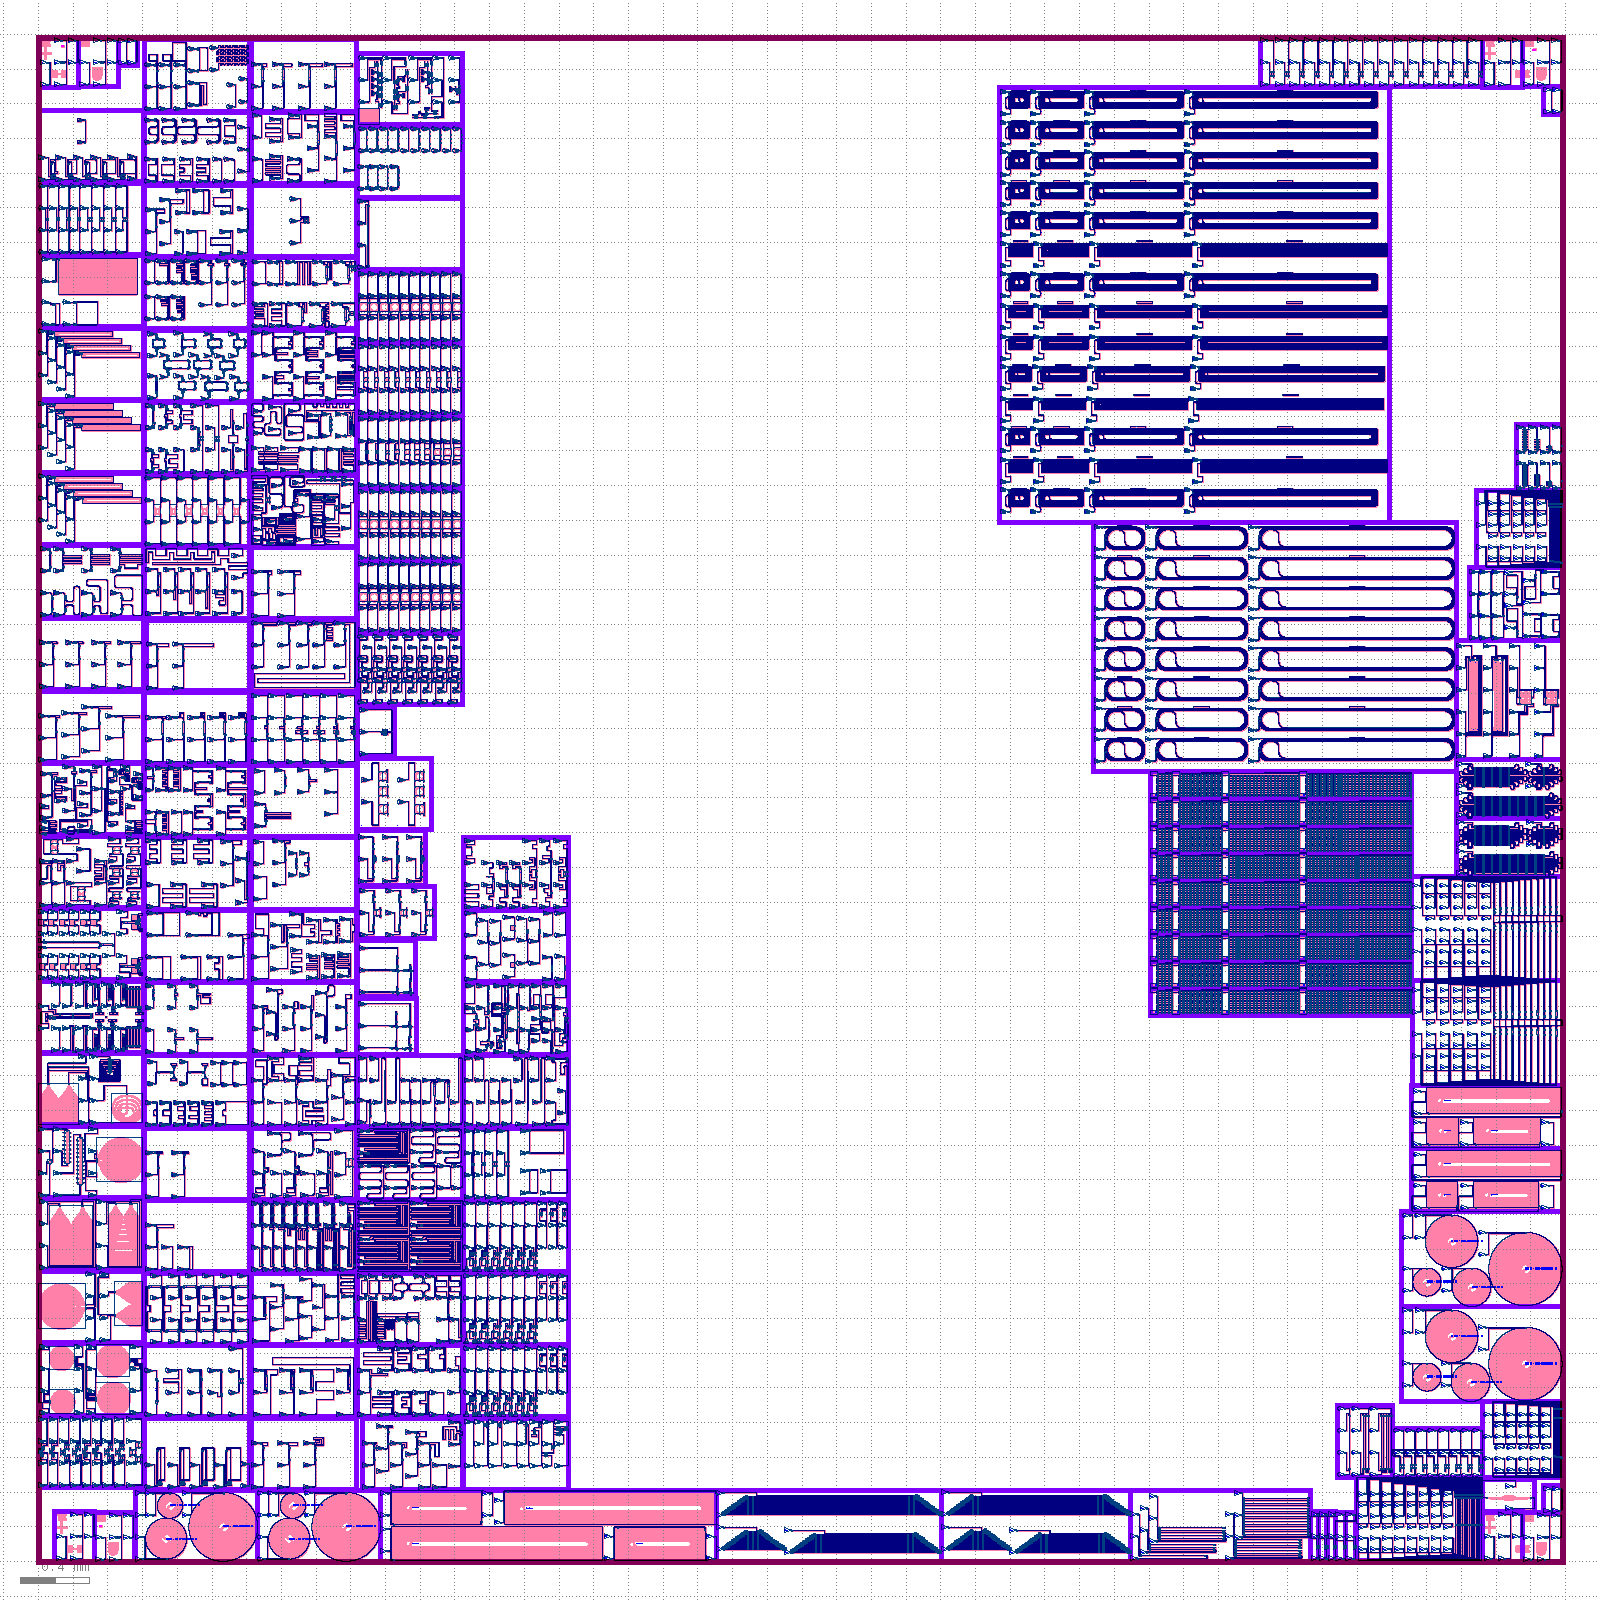
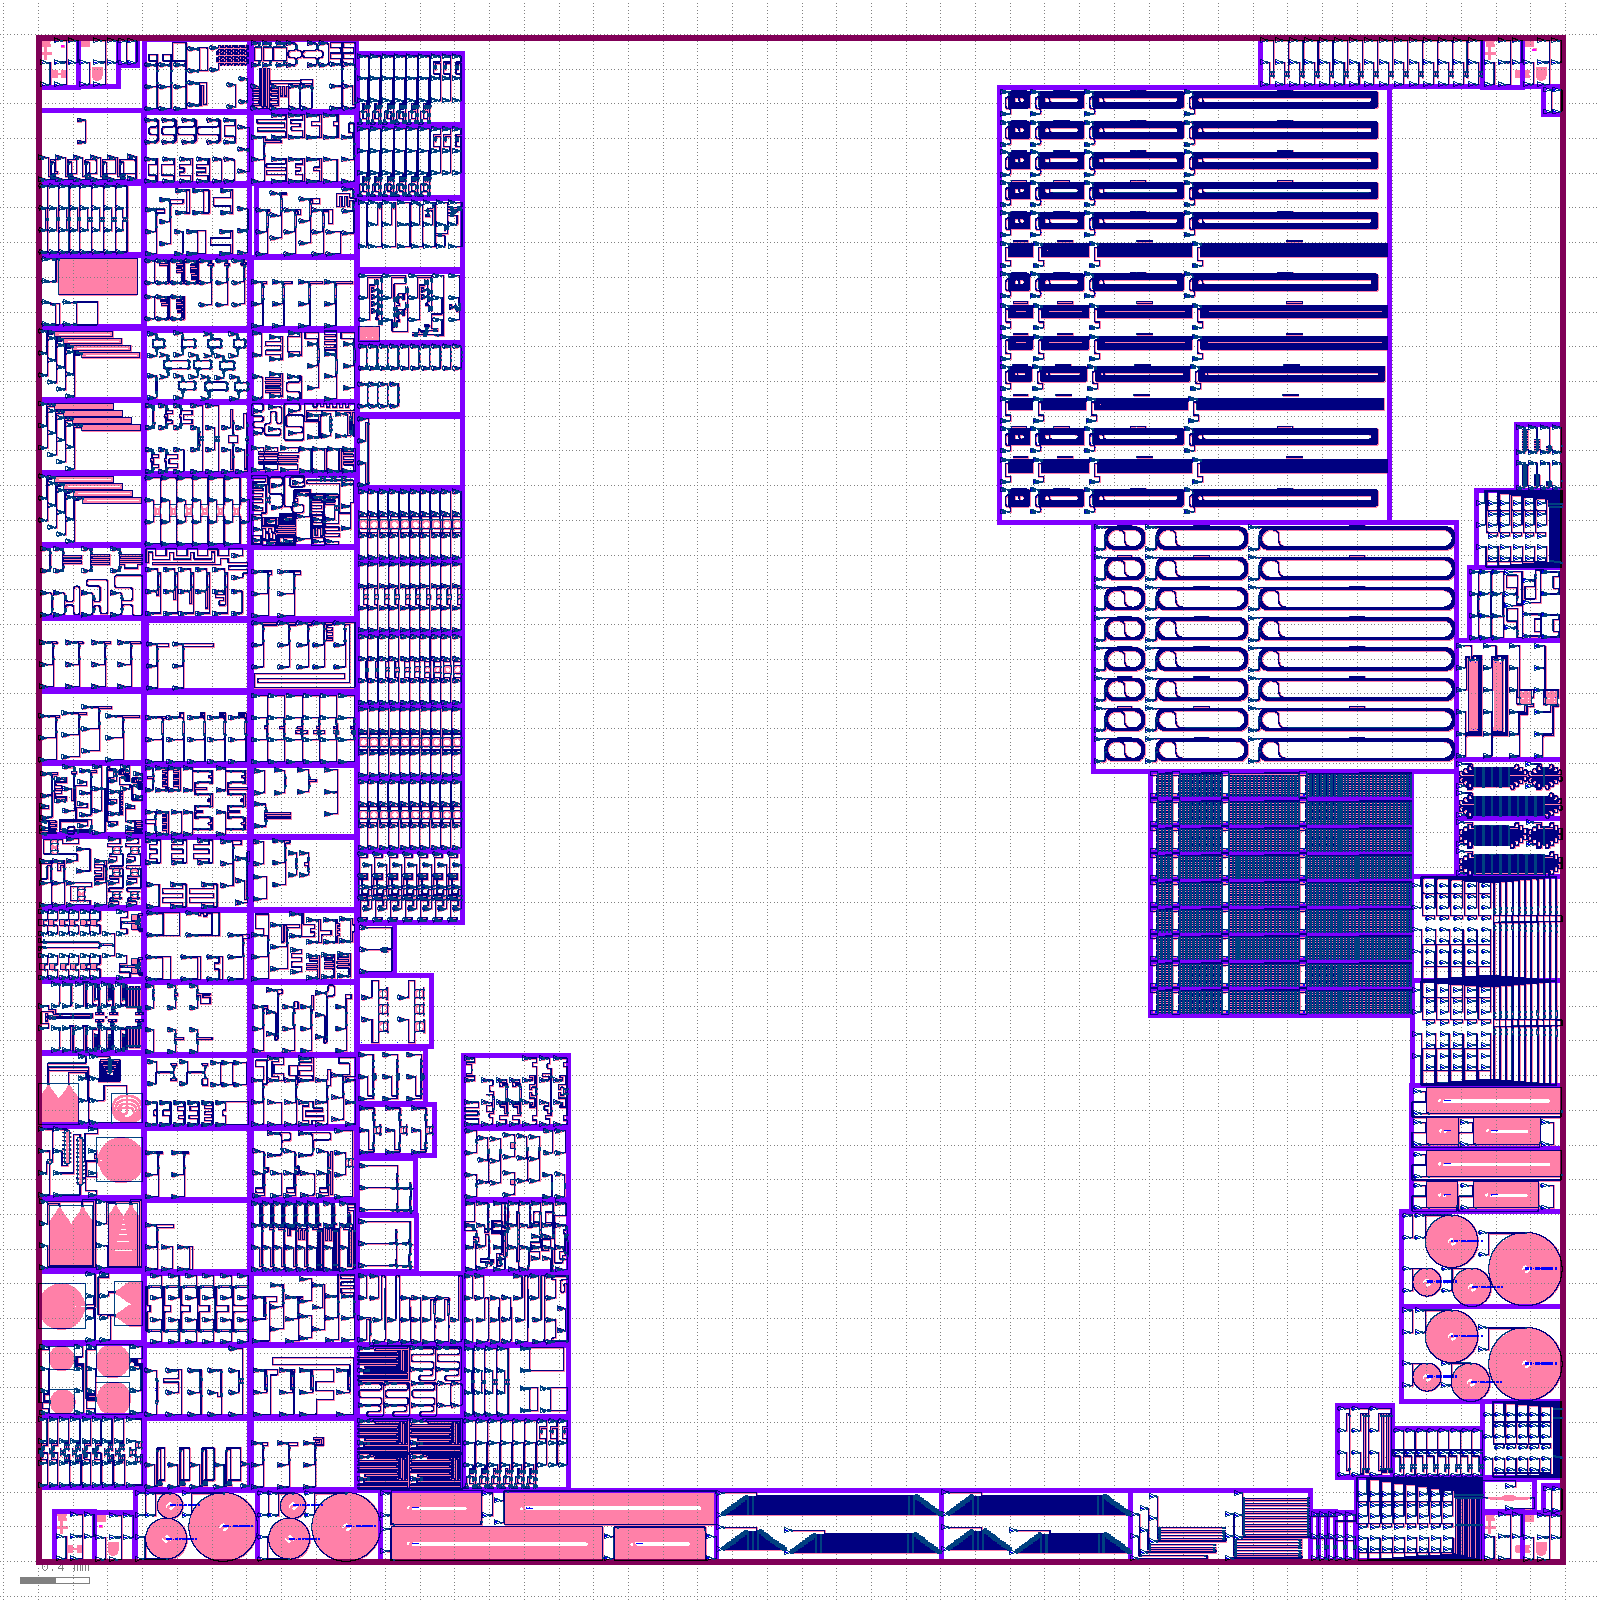
Aggregation layout: https://github.com/SiEPIC/openEBL-2026-05/actions/runs/25939777304/artifacts/7025892116

Changed region(s): [[0.1562, 0.0, 0.375, 0.9375]]

diff --git a/README.md b/README.md
@@ -91,5 +91,5 @@ Will be added here.
 
 Click on the following link to download the EBeam.oas merged layout file:
 <!-- start-link -->
-https://github.com/SiEPIC/openEBL-2026-05/actions/runs/25939709693/artifacts/7025866435
+https://github.com/SiEPIC/openEBL-2026-05/actions/runs/25939777304/artifacts/7025892116
 <!-- end-link -->